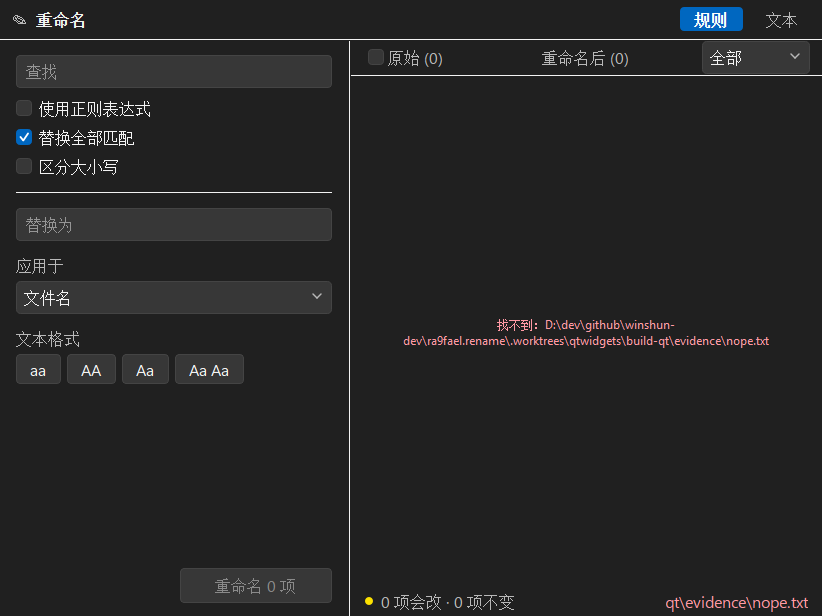
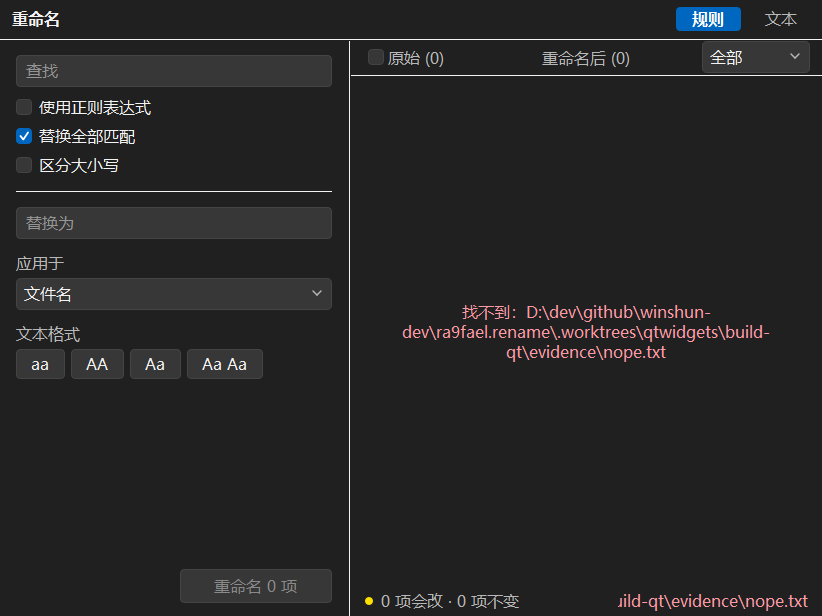
Widgets: select CJK font early and remove emoji glyphs

diff --git a/ui/widgets_window.cpp b/ui/widgets_window.cpp
@@ -4,6 +4,7 @@
 #include "ui/widgets_theme.h"
 
 #include <QAbstractButton>
+#include <QAbstractItemView>
 #include <QApplication>
 #include <QCheckBox>
 #include <QCloseEvent>
@@ -284,7 +285,14 @@ Window::Window(rename_qml::Bridge* bridge, QWidget* parent)
     setAttribute(Qt::WA_DeleteOnClose, false);
     setWindowFlag(Qt::WindowContextHelpButtonHint, false);
 
-    m_theme = new Theme(Theme::From(m_bridge->look(), m_bridge->dark(), m_bridge->uiSize()));
+    m_theme = new Theme(Theme::From(m_bridge->look(), m_bridge->dark(), m_bridge->uiSize(),
+                                    m_bridge->locale()));
+    // Set the CJK-capable face before any child is created. Setting it only
+    // after BuildUi is too late: laying out a Chinese label with the default
+    // Latin font has already populated Qt's fallback font cache (measured:
+    // 129 MB private versus 9 MB when the font is chosen up front).
+    QApplication::setFont(m_theme->font);
+    m_theme->apply(this);
 
     BuildUi();
     ConnectBridge();
@@ -311,11 +319,11 @@ void Window::BuildUi()
     topLayout->setContentsMargins(12, 0, 8, 0);
     topLayout->setSpacing(8);
 
-    auto* titleIcon = new QLabel(QStringLiteral("✎"), top);
-    titleIcon->setObjectName(QStringLiteral("caption"));
+    // No Unicode pencil/arrow glyphs here: U+270E and U+23F7 make Qt fall back
+    // to Segoe UI Emoji/Symbol, which costs ~120 MB of private memory on this
+    // machine (measured). The title is text only; the arrows are painted.
     auto* title = new QLabel(T("重命名", "Rename"), top);
     title->setObjectName(QStringLiteral("topTitle"));
-    topLayout->addWidget(titleIcon);
     topLayout->addWidget(title);
     topLayout->addStretch(1);
 
@@ -445,11 +453,8 @@ void Window::BuildUi()
 
     m_text = new QPlainTextEdit(textPage);
     m_text->setLineWrapMode(QPlainTextEdit::NoWrap);
-    QFont mono(QStringLiteral("Cascadia Mono"));
-    mono.setStyleHint(QFont::Monospace);
-    mono.setPixelSize(m_theme->fontBody);
-    m_text->setFont(mono);
-    m_text->setTabStopDistance(4 * QFontMetricsF(mono).horizontalAdvance(QLatin1Char(' ')));
+    m_text->setFont(m_theme->mono);
+    m_text->setTabStopDistance(4 * QFontMetricsF(m_theme->mono).horizontalAdvance(QLatin1Char(' ')));
     textLayout->addWidget(m_text, 1);
     m_leftStack->addWidget(textPage);
 
@@ -554,6 +559,7 @@ void Window::BuildUi()
     m_hint = new QLabel(footer);
     m_hint->setObjectName(QStringLiteral("caption"));
     m_hint->setAlignment(Qt::AlignRight | Qt::AlignVCenter);
+    m_hint->setMinimumWidth(190);
     m_hint->setSizePolicy(QSizePolicy::Ignored, QSizePolicy::Preferred);
     footerLayout->addWidget(m_hint, 1);
     rightLayout->addWidget(footer);
@@ -863,19 +869,23 @@ void Window::ApplyAppearance()
     if (!m_bridge || !m_theme)
         return;
 
-    *m_theme = Theme::From(m_bridge->look(), m_bridge->dark(), m_bridge->uiSize());
+    *m_theme = Theme::From(m_bridge->look(), m_bridge->dark(), m_bridge->uiSize(),
+                           m_bridge->locale());
+    QApplication::setFont(m_theme->font);
     m_theme->apply(this);
 
     setWindowTitle(T("重命名", "Rename"));
     m_table->verticalHeader()->setDefaultSectionSize(m_theme->rowHeight);
     m_table->setColumnWidth(0, 34);
+    m_bridge->previewModel()->setBaseFont(m_theme->font);
+    if (m_scope)
+        m_scope->view()->setFont(m_theme->font);
+    if (m_filter)
+        m_filter->view()->setFont(m_theme->font);
     if (m_text)
     {
-        QFont mono(QStringLiteral("Cascadia Mono"));
-        mono.setStyleHint(QFont::Monospace);
-        mono.setPixelSize(m_theme->fontBody);
-        m_text->setFont(mono);
-        m_text->setTabStopDistance(4 * QFontMetricsF(mono).horizontalAdvance(QLatin1Char(' ')));
+        m_text->setFont(m_theme->mono);
+        m_text->setTabStopDistance(4 * QFontMetricsF(m_theme->mono).horizontalAdvance(QLatin1Char(' ')));
     }
     ApplyTitleBar();
     RefreshFooter();

diff --git a/ui/widgets_theme.cpp b/ui/widgets_theme.cpp
@@ -69,7 +69,8 @@ QString Rgba(const QColor& colour)
 
 } // namespace
 
-Theme Theme::From(const QVariantMap& look, bool dark, const QString& uiSize)
+Theme Theme::From(const QVariantMap& look, bool dark, const QString& uiSize,
+                  const QString& locale)
 {
     Theme t;
     t.dark = dark;
@@ -126,10 +127,21 @@ Theme Theme::From(const QVariantMap& look, bool dark, const QString& uiSize)
     t.controlHeight = controlHeight[level];
     t.rowHeight = rowHeight[level];
 
-    t.font = QFont(QStringLiteral("Segoe UI Variable Text"));
+    // A direct CJK family matters: Qt's fallback from a Latin-only family to a
+    // CJK face loads a very large font cache (measured: 122 MB private for four
+    // Chinese labels versus 9 MB with Microsoft YaHei UI selected explicitly).
+    // Choosing the family here keeps the Widgets window in single-digit MBs.
+    const bool zh = locale.startsWith(QLatin1String("zh"));
+    t.font = QFont(zh ? QStringLiteral("Microsoft YaHei UI")
+                      : QStringLiteral("Segoe UI Variable Text"));
     t.font.setStyleHint(QFont::SansSerif);
     t.font.setPixelSize(t.fontBody);
     t.font.setStyleStrategy(QFont::PreferAntialias);
+
+    t.mono = QFont(zh ? QStringLiteral("Microsoft YaHei UI")
+                      : QStringLiteral("Cascadia Mono"));
+    t.mono.setStyleHint(zh ? QFont::SansSerif : QFont::Monospace);
+    t.mono.setPixelSize(t.fontBody);
     return t;
 }
 

diff --git a/ui/bridge.h b/ui/bridge.h
@@ -16,6 +16,7 @@
 #include "win/platform.h"
 
 #include <QColor>
+#include <QFont>
 #include <QObject>
 #include <QString>
 #include <QVariantList>
@@ -53,6 +54,7 @@ public:
     void setRows(const std::vector<rename_ui::Row>& rows);
     std::vector<rename_ui::Row> rows() const { return m_rows; }
     void setLocale(const QString& locale) { m_locale = locale; }
+    void setBaseFont(const QFont& font) { m_baseFont = font; }
     void setColors(const QColor& text, const QColor& subtext, const QColor& faint, const QColor& danger);
 
 signals:
@@ -65,6 +67,7 @@ private:
 
     std::vector<rename_ui::Row> m_rows;
     QString m_locale = QStringLiteral("zh");
+    QFont m_baseFont;
     QColor m_text;
     QColor m_subtext;
     QColor m_faint;

diff --git a/ui/bridge.cpp b/ui/bridge.cpp
@@ -150,7 +150,9 @@ QVariant PreviewModel::data(const QModelIndex& index, int role) const
     case Qt::FontRole:
         if (index.column() == 2 && row.status == rename_core::Status::Ready)
         {
-            QFont font = QApplication::font();
+            QFont font = m_baseFont;
+            if (font.family().isEmpty())
+                font = QApplication::font();
             font.setBold(true);
             return font;
         }

diff --git a/ui/widgets_theme.h b/ui/widgets_theme.h
@@ -57,8 +57,10 @@ struct Theme
     int fontSmall = 12;
 
     QFont font;
+    QFont mono;
 
-    static Theme From(const QVariantMap& look, bool dark, const QString& uiSize);
+    static Theme From(const QVariantMap& look, bool dark, const QString& uiSize,
+                      const QString& locale);
 
     // The widget's palette and stylesheet. Cheap enough to redo when the host
     // sends a new appearance.

diff --git a/docs/validation/rename-widgets-20261115/README.md b/docs/validation/rename-widgets-20261115/README.md
@@ -22,8 +22,15 @@ were present when the experiment started.
   instead of an empty set. `reset()` clears the same state.
 - Apply results are matched back by the full planned target path, not by a leaf
   suffix, so equal leaf names in different folders cannot be mixed up.
-- `package/plugin.json` raises `memoryMB` from 128 to 512. The Qt Quick window
-  crashed with `qBadAlloc` under the 128 MB job cap; see the earlier QML log.
+- `package/plugin.json` raises `memoryMB` from 128 to 256 as headroom. The
+  measured window is now ~10 MB private, so the old 128 MB cap was not the real
+  cause; the Unicode-symbol/font fallback below was.
+- The window no longer uses `✎`/`⏷`-style Unicode glyphs: U+270E alone loaded
+  Segoe UI Emoji/Symbol and cost ~119 MB private on this machine. Arrows and
+  checkmarks are painted now.
+- The CJK-capable font (`Microsoft YaHei UI`) is selected before any child
+  widget is created; selecting it later was too late because layout had already
+  populated Qt's fallback font cache.
 - `tools/pack.ps1` bundles `Qt6Widgets.dll` when the exe imports it. Qt Widgets
   is not in WinShun's shared-Qt contract yet.
 
@@ -69,26 +76,44 @@ A host-like process (same environment as `tools/host-sim.ps1`) started
 ```
 
 It answered `{"effects":[{"type":"hide"}]}`, the plugin logged
-`[rename] files trigger: count=2`, and the window rendered at 822×616. The
-128 MB crash did not recur with `memoryMB: 512`.
+`[rename] files trigger: count=1`, and the window rendered at 822×616. The
+128 MB crash did not recur with the font/symbol fix and `memoryMB: 256`.
 
 This is not the same as clicking the item in WinShun's GUI: the real host still
 needs a package install with `Qt6Widgets.dll` beside the plugin exe (or Qt
 Widgets added to the shared-Qt contract). The final experimental package is
-`dist/ra9fael.rename-0.1.0.wsplugin` (3,294,591 bytes, SHA-256
[1 lines of base64/hex data omitted]
+`dist/ra9fael.rename-0.1.0.wsplugin` (3,295,311 bytes, SHA-256
[1 lines of base64/hex data omitted]
 
 ## Memory (this machine)
 
 | Build | Working set | Private / commit | Notes |
 |---|---:|---:|---|
-| QML window, 128 MB cap | 324 MB peak (wrapper) | 164 MB commit at crash | `qBadAlloc` in `QFontEngine::initializeHeightMetrics` |
-| Widgets window, idle after 1.5 s | 261 MB | 136 MB | two rows, dark fluent tokens |
-| Widgets under host Qt, two-file files trigger | 260 MB | 136 MB | sampled while the window was open |
+| QML window, 128 MB cap | 324 MB peak (wrapper) | 164 MB commit at crash | `qBadAlloc`; also contained `✎`/`⏷` glyphs |
+| Widgets, before glyph/font fix | 261 MB | 136 MB | same two rows |
+| Widgets, final, two files | 50 MB | 12.5 MB | peak paged 27 MB |
+| Widgets, final, Chinese filenames | 50 MB | 12.1 MB | peak paged 27 MB |
+| Widgets under host Qt, files trigger | 45 MB | 8.6 MB | sampled with the window open |
 
-Widgets remove the QML engine and scene graph, but the Qt GUI/font stack is
-still the dominant cost. This is not a "tiny" build; Win32 GDI/DirectWrite is
-the way to get there. The immediate job-cap problem is solved by 512 MB.
+### Why the first Widgets number was wrong
+
+A minimal Qt Widgets probe isolated the cost; these are private/commit numbers
+on this machine:
+
+| Probe | Private |
+|---|---:|
+| English labels, default font | 10 MB |
+| Chinese labels, default font | 122 MB |
+| Chinese labels, `Microsoft YaHei UI` selected up front | 9 MB |
+| The same plus a `✎` label (U+270E) | 119 MB |
+| The same plus `⏷` (U+23F7) | 54 MB |
+
+So the high number was **not Qt Widgets**. Qt's fallback from a Latin-only font
+to a CJK face, and from normal text to Segoe UI Emoji/Symbol for `✎`/`⏷`, loads
+large font caches. The QML window used the same glyphs and the same Latin-only
+family, so its 164 MB crash was likely the same effect plus the QML engine; that
+QML combination was not retested. Win32 GDI is only the answer if the target is
+"single-digit MB"; Widgets is already around 10 MB private after the fix.
 
 ## Not verified yet
 
